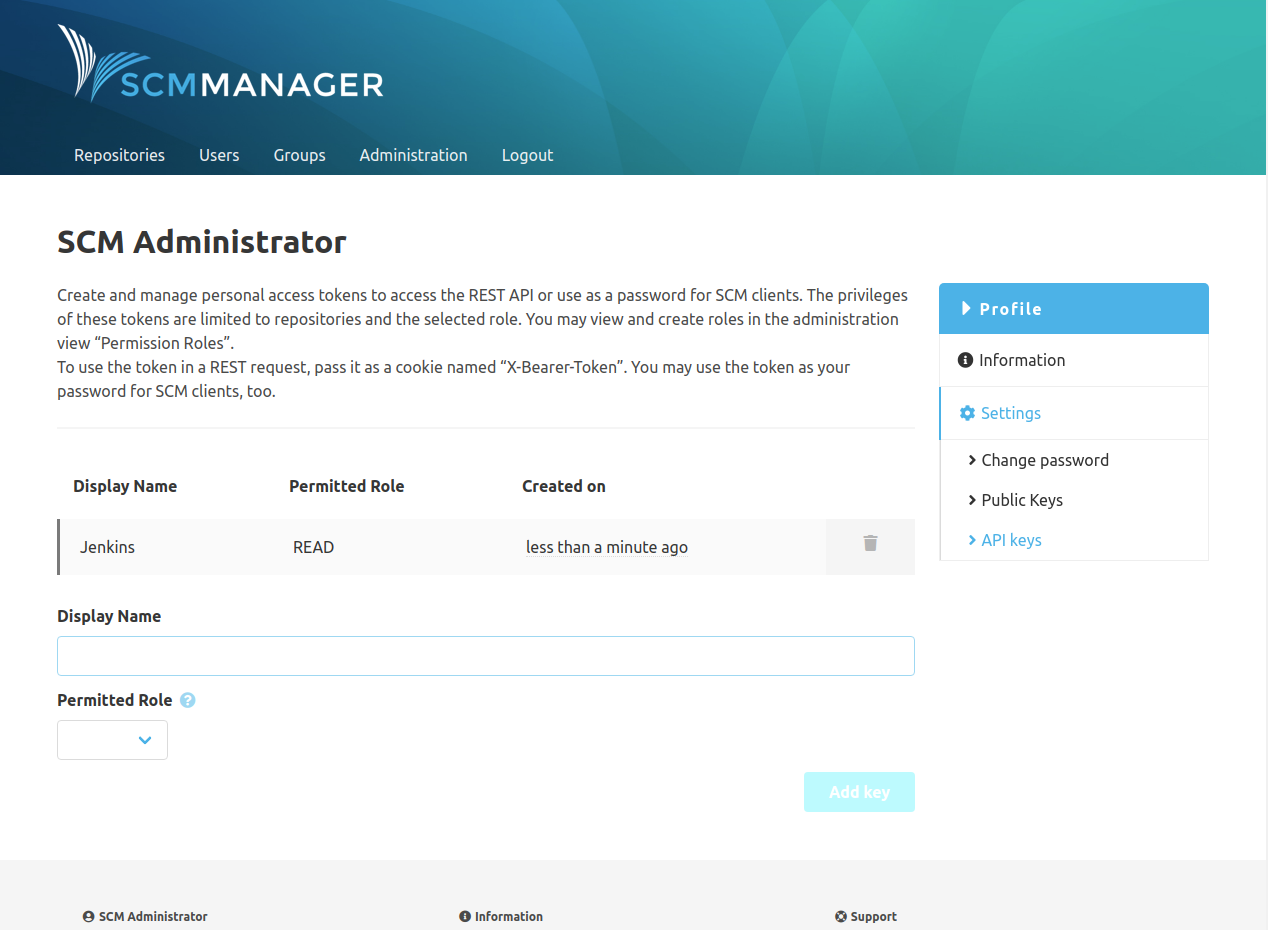
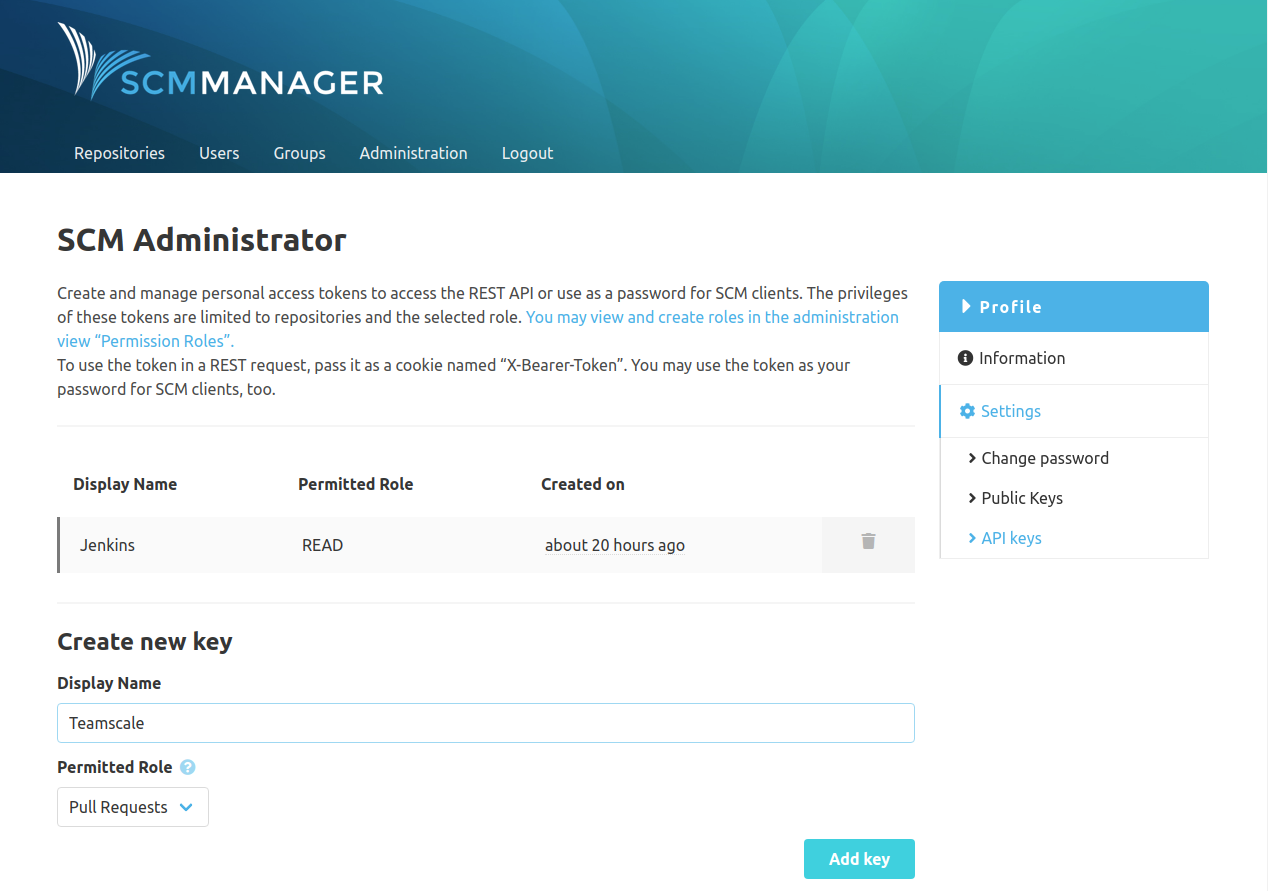
Add link to permission roles

diff --git a/scm-ui/ui-webapp/src/users/components/apiKeys/SetApiKeys.tsx b/scm-ui/ui-webapp/src/users/components/apiKeys/SetApiKeys.tsx
@@ -22,12 +22,14 @@
  * SOFTWARE.
  */
 
-import { Collection, Link, Links, User, Me } from "@scm-manager/ui-types";
+import { Collection, Links, User, Me } from "@scm-manager/ui-types";
 import React, { FC, useEffect, useState } from "react";
+import { Link } from "react-router-dom";
 import { apiClient, ErrorNotification, Loading } from "@scm-manager/ui-components";
 import ApiKeyTable from "./ApiKeyTable";
 import AddApiKey from "./AddApiKey";
 import { useTranslation } from "react-i18next";
+import styled from "styled-components";
 
 export type ApiKeysCollection = Collection & {
   _embedded: {
@@ -48,6 +50,10 @@ export const CONTENT_TYPE_API_KEY = "application/vnd.scmm-apiKey+json;v=2";
 type Props = {
   user: User | Me;
 };
+
+const Subtitle = styled.div`
+  margin-bottom: 1rem;
+`;
 
 const SetApiKeys: FC<Props> = ({ user }) => {
   const [t] = useTranslation("users");
@@ -89,11 +95,13 @@ const SetApiKeys: FC<Props> = ({ user }) => {
   return (
     <>
       <div className={"media-content"}>
-        <p>{t("apiKey.text1")}</p>
+        <p>{t("apiKey.text1")} <Link to={"/admin/roles/"}>{t("apiKey.manageRoles")}</Link></p>
         <p>{t("apiKey.text2")}</p>
       </div>
       <hr />
       <ApiKeyTable apiKeys={apiKeys} onDelete={onDelete} />
+      <hr />
+      <Subtitle className={"media-content"}><h2 className={"title is-4"}>Create new key</h2></Subtitle>
       {createLink && <AddApiKey createLink={createLink} refresh={fetchApiKeys} />}
     </>
   );
